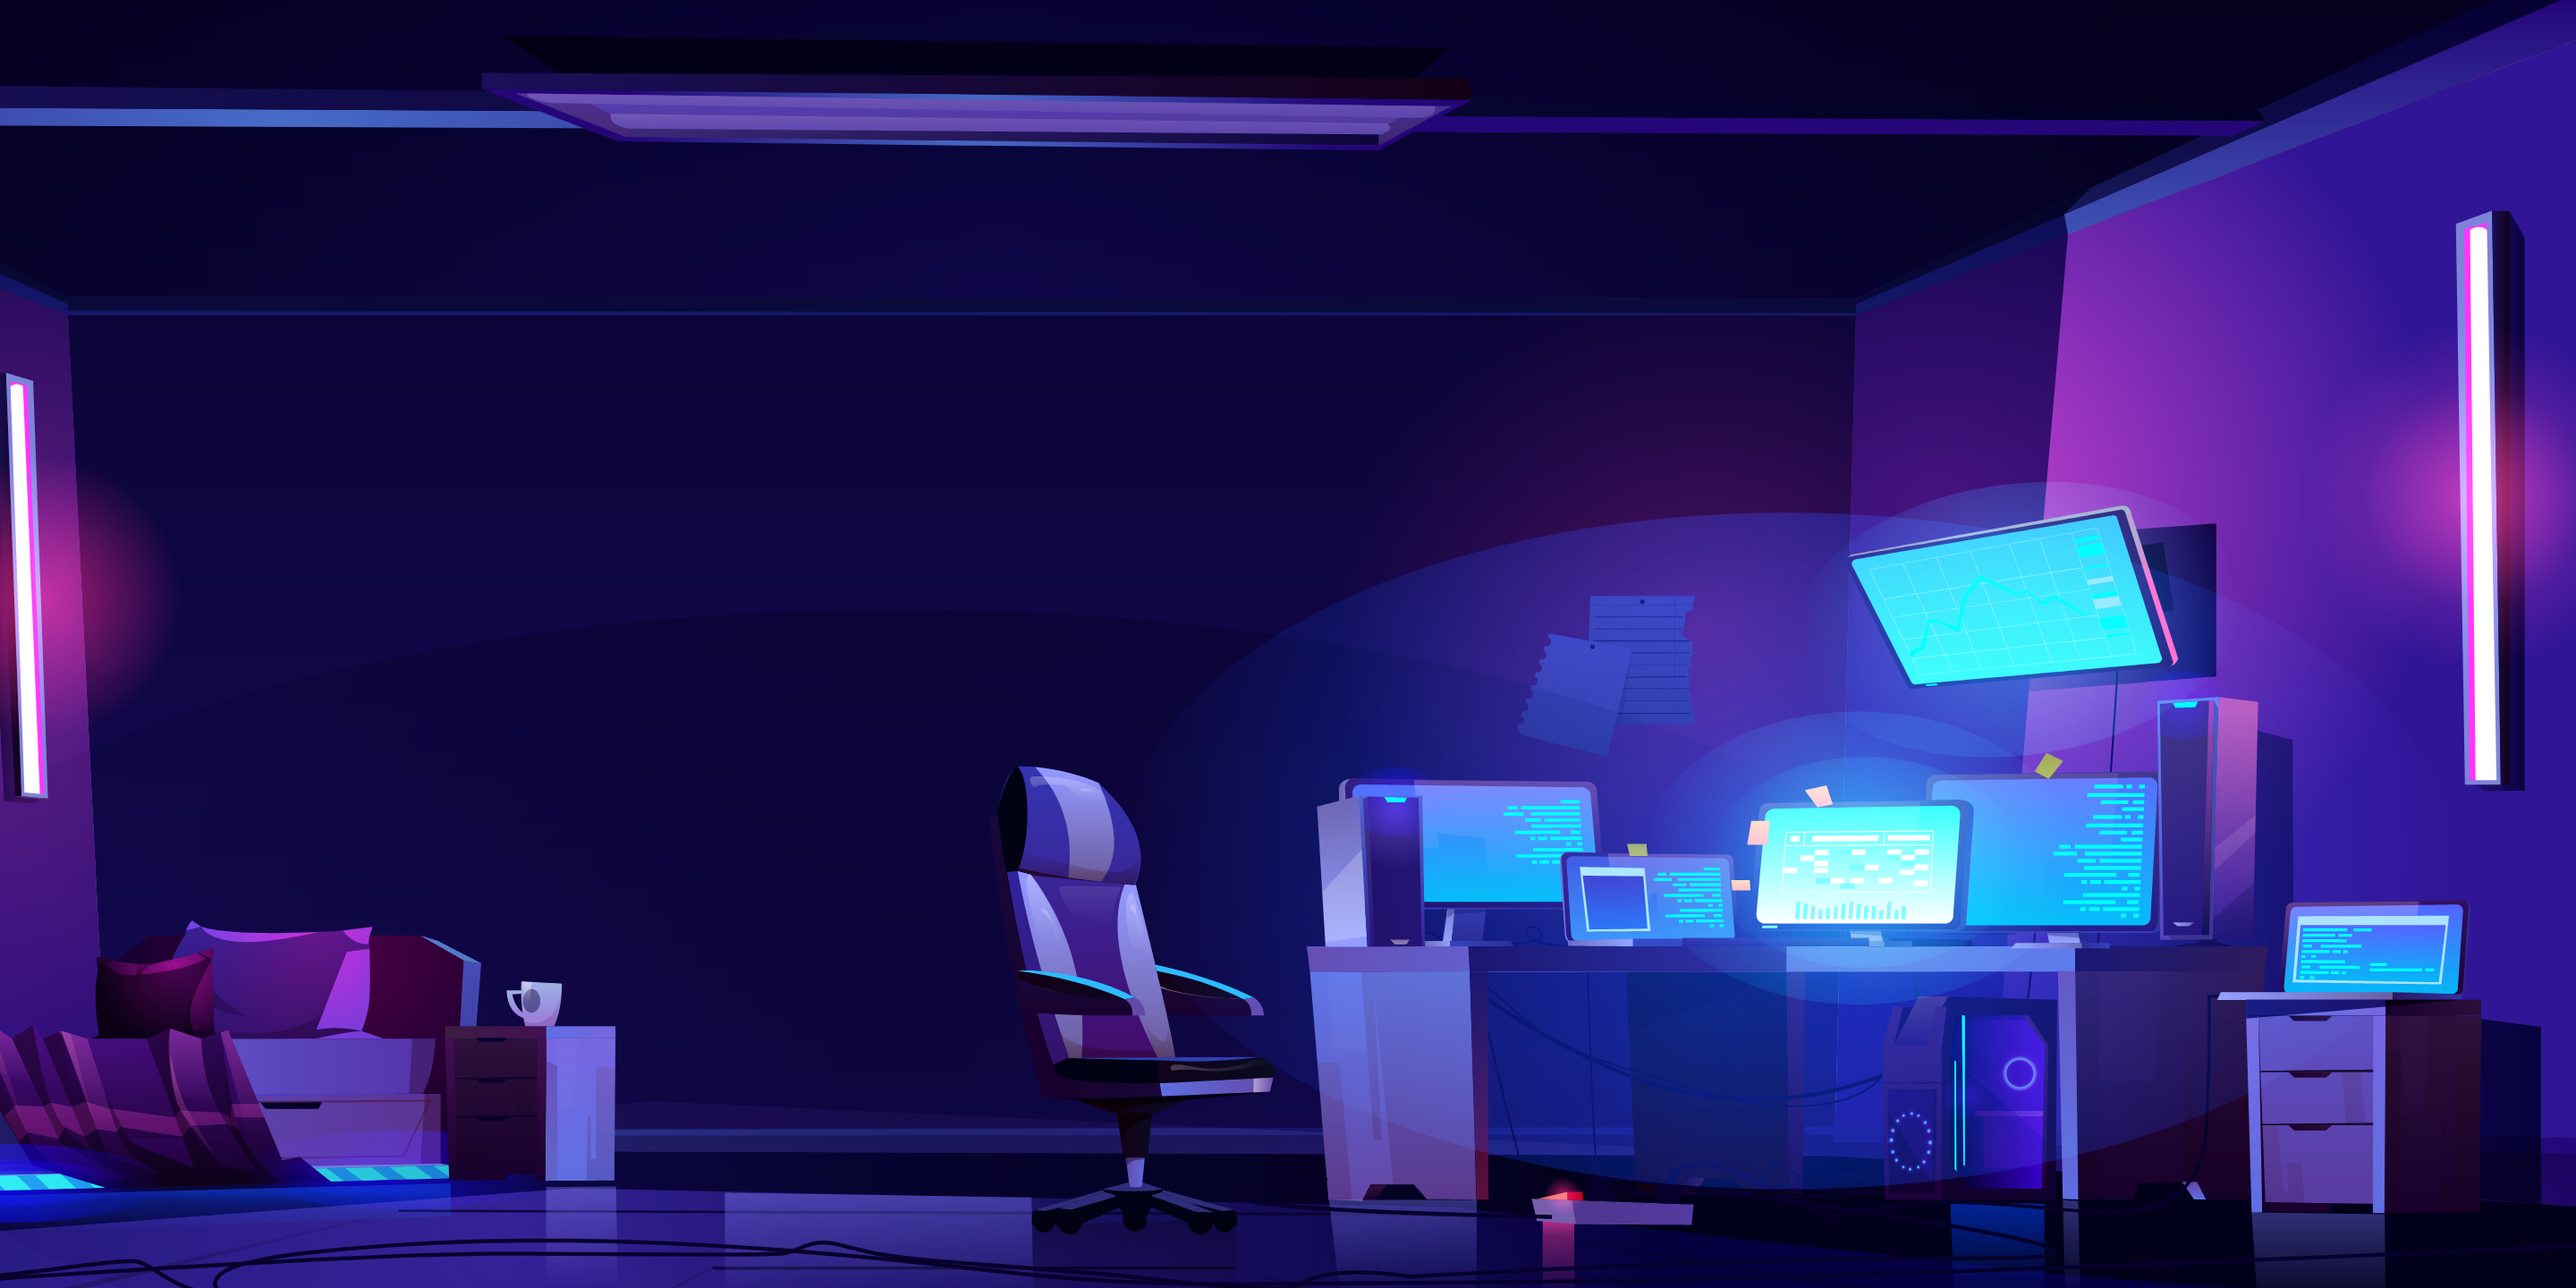
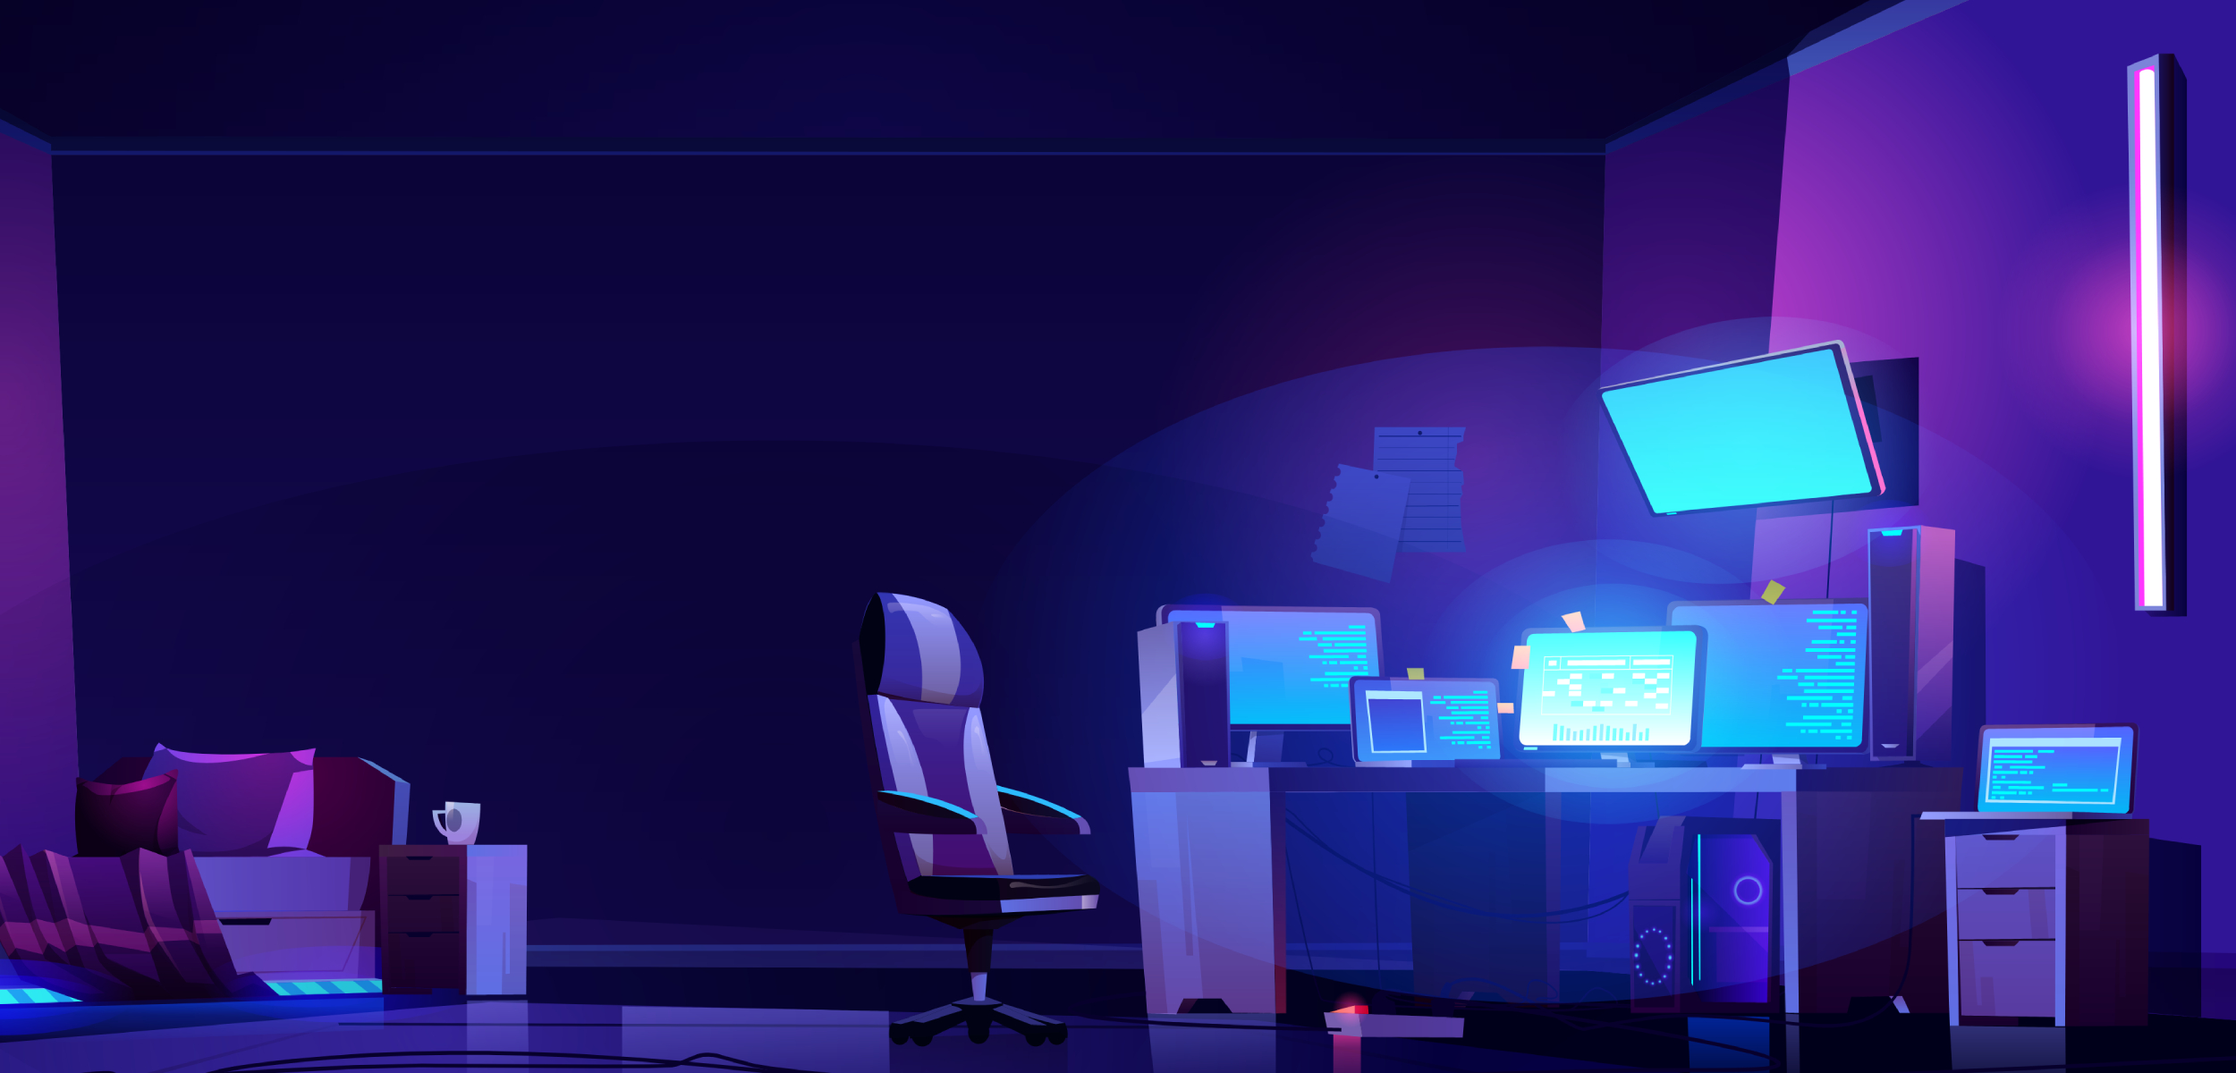
updated styling to home page and added styling to login page

Changed region(s): [[0.0, 0.0, 1.0, 1.0], [0.0, 0.2775, 0.0624, 0.6167], [0.9672, 0.8633, 1.0, 0.9558]]

diff --git a/components/auth/auth-form.js b/components/auth/auth-form.js
@@ -139,40 +139,43 @@ function AuthForm() {
 		setIsLogin((prevState) => !prevState);
 	}
   	return (
-		<section className={classes.auth}>
-			
-			<h1>{isLogin ? 'Login' : 'Sign Up'}</h1>
-			<form onSubmit={submitHandler}>
-				<div className={classes.control}>
-					<div style={{color:'red'}}> {isUsernameError ? [errorMessage] : ''}</div>
-					<label htmlFor='username'>Your Username</label>
-					<input type='text' name='username' required value={credentials.username} onChange={handleChange} maxLength='50' />
-				</div>
-				<div className={classes.control}>
-					<label htmlFor='password'>Your Password</label>
-					<input type='password' name='password' required value={credentials.password} onChange={handleChange} />
-				</div>
-				<div className={classes.control} style={ {display:isLogin ? 'none': 'block'}}>
-					<div style={{color:'red'}}> {isConfirmationError ? 'Password does not match' : ''}</div>
-					<label htmlFor='password'>Confirm Your Password</label>
-					<input type='password' name='confirmPassword' value={confirmPassword} onChange={handleConfirmation}/>
-				</div>
-				<div className={classes.actions}>
-					<button 
-						disabled={isRegisterError} 
-						style={{backgroundColor:isRegisterError? '#4a4a4a': '', color:isRegisterError? 'black': '', cursor:isRegisterError? 'not-allowed': 'pointer'}}>
-							{isLogin ? 'Login' : 'Create Account'}
-					</button>
-					<button
-						type='button'
-						className={classes.toggle}
-						onClick={switchAuthModeHandler}
-					>
-					{isLogin ? 'Create new account' : 'Login with existing account'}
-					</button>
-				</div>
-			</form>
-		</section>
+		<div className={classes.loginWrapper}>
+			<div className={classes.loginContainer}>
+				<section className={classes.auth}>
+					<h1>{isLogin ? 'Login' : 'Sign Up'}</h1>
+					<form onSubmit={submitHandler}>
+						<div className={classes.control}>
+							<div style={{color:'red'}}> {isUsernameError ? [errorMessage] : ''}</div>
+							<label htmlFor='username'>Your Username</label>
+							<input type='text' name='username' required value={credentials.username} onChange={handleChange} maxLength='50' />
+						</div>
+						<div className={classes.control}>
+							<label htmlFor='password'>Your Password</label>
+							<input type='password' name='password' required value={credentials.password} onChange={handleChange} />
+						</div>
+						<div className={classes.control} style={ {display:isLogin ? 'none': 'block'}}>
+							<div style={{color:'red'}}> {isConfirmationError ? 'Password does not match' : ''}</div>
+							<label htmlFor='password'>Confirm Your Password</label>
+							<input type='password' name='confirmPassword' value={confirmPassword} onChange={handleConfirmation}/>
+						</div>
+						<div className={classes.actions}>
+							<button 
+								disabled={isRegisterError} 
+								style={{backgroundColor:isRegisterError? '#4a4a4a': '', color:isRegisterError? 'black': '', cursor:isRegisterError? 'not-allowed': 'pointer'}}>
+									{isLogin ? 'Login' : 'Create Account'}
+							</button>
+							<button
+								type='button'
+								className={classes.toggle}
+								onClick={switchAuthModeHandler}
+							>
+							{isLogin ? 'Create new account' : 'Login with existing account'}
+							</button>
+						</div>
+					</form>
+				</section>
+			</div>
+		</div>
 	);
 }
 

diff --git a/components/auth/auth-form.module.css b/components/auth/auth-form.module.css
@@ -1,21 +1,35 @@
+.loginWrapper{
+	width: 100%;
+	height: 100vh;
+	background-image: url('/images/loginWallpaper-min.jpg');
+	background-size: cover;
+	display: flex;
+	justify-content: start;
+	align-items: center;
+}
+.loginContainer{
+	display: flex;
+	flex-direction: column;
+	justify-content: center;
+	max-width: 450px; 
+	width: 100%;
+	height: 100vh;
+	align-items: center;
+	background:#02001a;
+}
 .auth {
-	margin: 3rem auto;
-	width: 95%;
-	max-width: 25rem;
-	border-radius: 6px;
-	background-color: #38015c;
-	box-shadow: 0 1px 4px rgba(0, 0, 0, 0.2);
-	padding: 1rem;
+	width: 70%;
 	text-align: center;
   }
   
   .auth h1 {
-	text-align: center;
+	text-align: left;
 	color: white;
+	margin:-30px 20px 30px 0px;
   }
   
   .control {
-	margin-bottom: 0.5rem;
+	margin-bottom: 30px;
   }
   
   .control label {
@@ -23,50 +37,52 @@
 	color: white;
 	font-weight: bold;
 	margin-bottom: 0.5rem;
+	text-align: left;
   }
   
   .control input {
+	outline: none;
+	border:none;
 	font: inherit;
-	background-color: #f1e1fc;
-	color: #38015c;
-	border-radius: 4px;
-	border: 1px solid white;
+	background-color: #303030;
+	color: #ffffff;
+	border-radius: 5px;
 	width: 100%;
 	text-align: left;
-	padding: 0.25rem;
+	padding: 10px;
   }
   
   .actions {
 	margin-top: 1.5rem;
 	display: flex;
 	flex-direction: column;
-	align-items: center;
+	align-items: left;
   }
   
   .actions button {
 	cursor: pointer;
 	font: inherit;
 	color: white;
-	background-color: #9f5ccc;
-	border: 1px solid #9f5ccc;
+	background-color: #303030;
+	border: 1px solid #303030;
 	border-radius: 4px;
-	padding: 0.5rem 2.5rem;
+	padding: 10px;
   }
   
   .actions button:hover {
-	background-color: #873abb;
-	border-color: #873abb;
+	background-color: #45afe3;
+	border-color: #45afe3;
   }
   
   .actions .toggle {
 	margin-top: 1rem;
 	background-color: transparent;
-	color: #9f5ccc;
+	color: #ffffff;
 	border: none;
 	padding: 0.15rem 1.5rem;
   }
   
   .actions .toggle:hover {
 	background-color: transparent;
-	color: #ae82cc;
+	color: #45afe3;
   }

diff --git a/styles/index.module.css b/styles/index.module.css
@@ -3,13 +3,15 @@
 	display: flex;
 	justify-content: center;
 	height: 100%;
-	background-color: #e0f4f5;
+	background-image: url('/images/homeWallpaper.jpg');
+	background-size: cover;
+	background-position: left;
 }
 .MainContainer{
 	margin: 0px 40px 0px 40px;
 	max-width: 1200px;
 	width: 100%;
-	height: 700px;
+	height: 100vh;
 	display: flex;
 	flex-direction: row;
 	justify-content: space-between;
@@ -30,11 +32,11 @@
 	margin: 0;
 	font-weight:900;
 	font-size: 6.5rem;
-	color: #004E98;
+	color: #ffffff;
 }
 .TitleContainer h2{
 	font-weight:lighter;
-	color: #004E98;
+	color: #ffffff;
 	font-size: 1.3rem;
 	margin: 10px 50px 30px 0px;
 }
@@ -42,8 +44,8 @@
 	transition: .5s;
 	font: inherit;
 	background-color: transparent;
-	border: 1px solid #004E98;
-	color: #004E98;
+	border: 1px solid #ffffff;
+	color: #ffffff;
 	font-weight: bold;
 	padding: 0.5rem 1.5rem;
 	border-radius: 6px;
@@ -51,13 +53,14 @@
 	width: 170px;
 }
 .TitleContainer button:hover {
-	background-color: #004E98;
+	border: 1px solid #40BFF8;
+	background-color: #40BFF8;
 	color: #ffffff;
 } 
 @media only screen and (max-width: 700px) {
 	.MainContainer{
 		width: 100%;
-		height: 100%;
+		height: 100vh;
 		display: flex;
 		flex-direction: column;
 		justify-content: center;

diff --git a/components/layout/main-navigation.module.css b/components/layout/main-navigation.module.css
@@ -1,9 +1,11 @@
-
 .headerContainer{
-	background-color: #ffffff;
+	background-color: #202020;
 	display: flex;
 	justify-content: center;
 	box-shadow: 0px 4px 11px -1px rgba(0,0,0,0.16);
+	position: fixed;
+	top: 0;
+	width: 100%;
 }
 .header {
 	width: 100%;
@@ -18,7 +20,7 @@
 .logo {
 	font-family: 'Montserrat', sans-serif;
 	font-size: 1.5rem;
-	color: #202020;
+	color: #ffffff;
 	margin: 0;
 	transition: .5s;
 }
@@ -38,7 +40,7 @@
 .header a {
 	transition: .5s;
 	text-decoration: none;
-	color: #202020;
+	color: #ffffff;
 	font-weight: bold;
 }
 
@@ -46,8 +48,8 @@
 	transition: .5s;
 	font: inherit;
 	background-color: transparent;
-	border: 1px solid #202020;
-	color: #202020;
+	border: 1px solid #ffffff;
+	color: #ffffff;
 	font-weight: bold;
 	padding: 0.5rem 1.5rem;
 	border-radius: 6px;
@@ -56,12 +58,12 @@
 
 .header a:hover {
 	text-decoration: overline;
-	color: #3A6EA5;
+	color: #40BFF8;
 }
 .logo:hover{
-	color: #3A6EA5;
+	color: #40BFF8;
 }
 .header button:hover {
-	background-color: #004E98;
-	color: #ffffff;
+	background-color: #40BFF8;
+	color: #2c2c2c;
 }

diff --git a/components/layout/main-navigation.js b/components/layout/main-navigation.js
@@ -5,15 +5,16 @@ import classes from './main-navigation.module.css';
 
 export default function MainNavigation() {
   const router = useRouter();
+  const currentRoute = router.pathname
   const [session, loading] = useSession();
-
+  console.log(currentRoute)
   function logoutHandler() {
     signOut();
     return router.push('/auth')
   }
 
   return (
-    <div className={classes.headerContainer}>
+    <div className={classes.headerContainer} style={currentRoute==='/'||currentRoute==='/auth'?{backgroundColor:'transparent'}:{backgroundColor:'#202020'}}>
       <header className={classes.header}>
         <Link href='/'>
           <a>

diff --git a/styles/globals.css b/styles/globals.css
@@ -2,6 +2,7 @@
 html {
   font-family: 'Montserrat', sans-serif;
   width: 100vw;
+  background-color: #02001a;
 }
 body {
   padding: 0;
